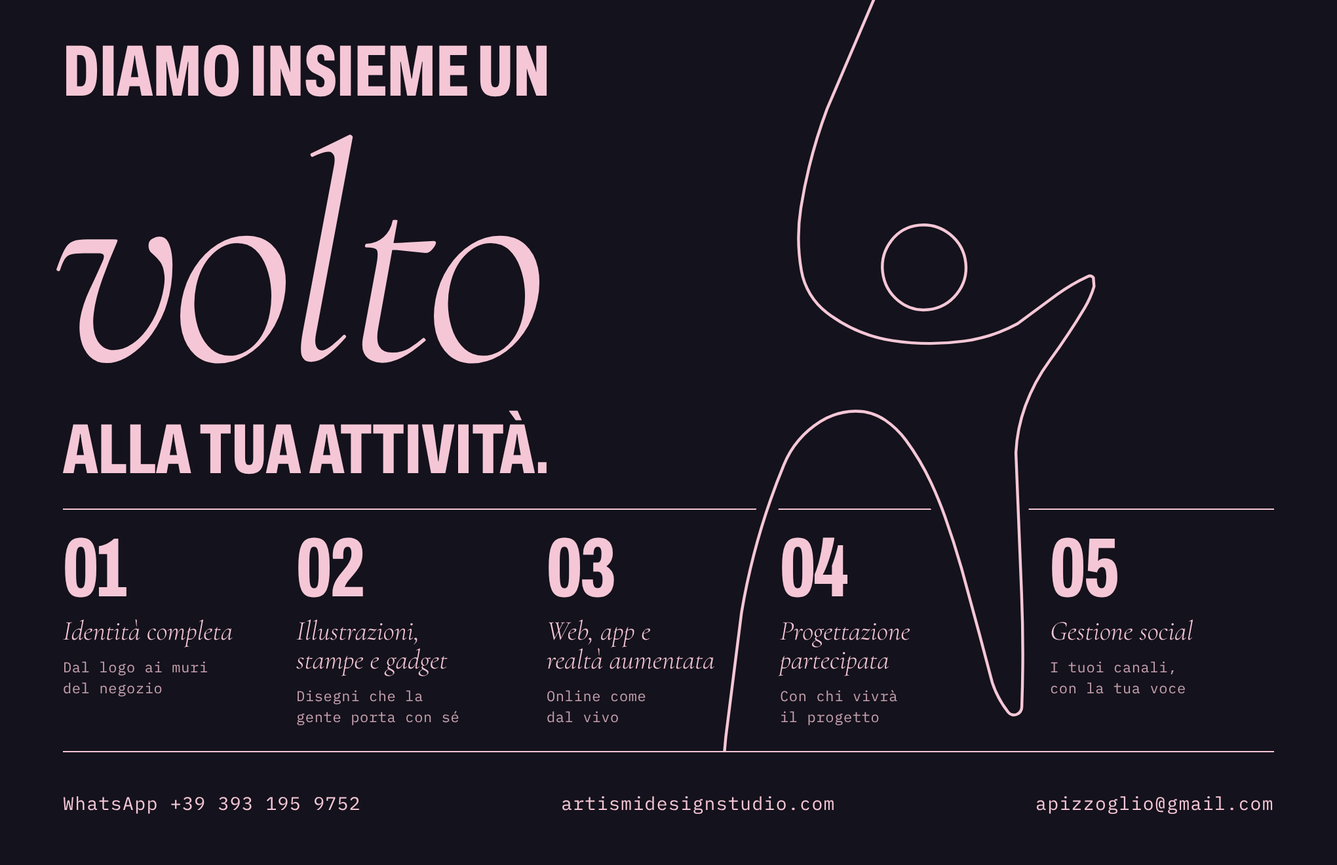
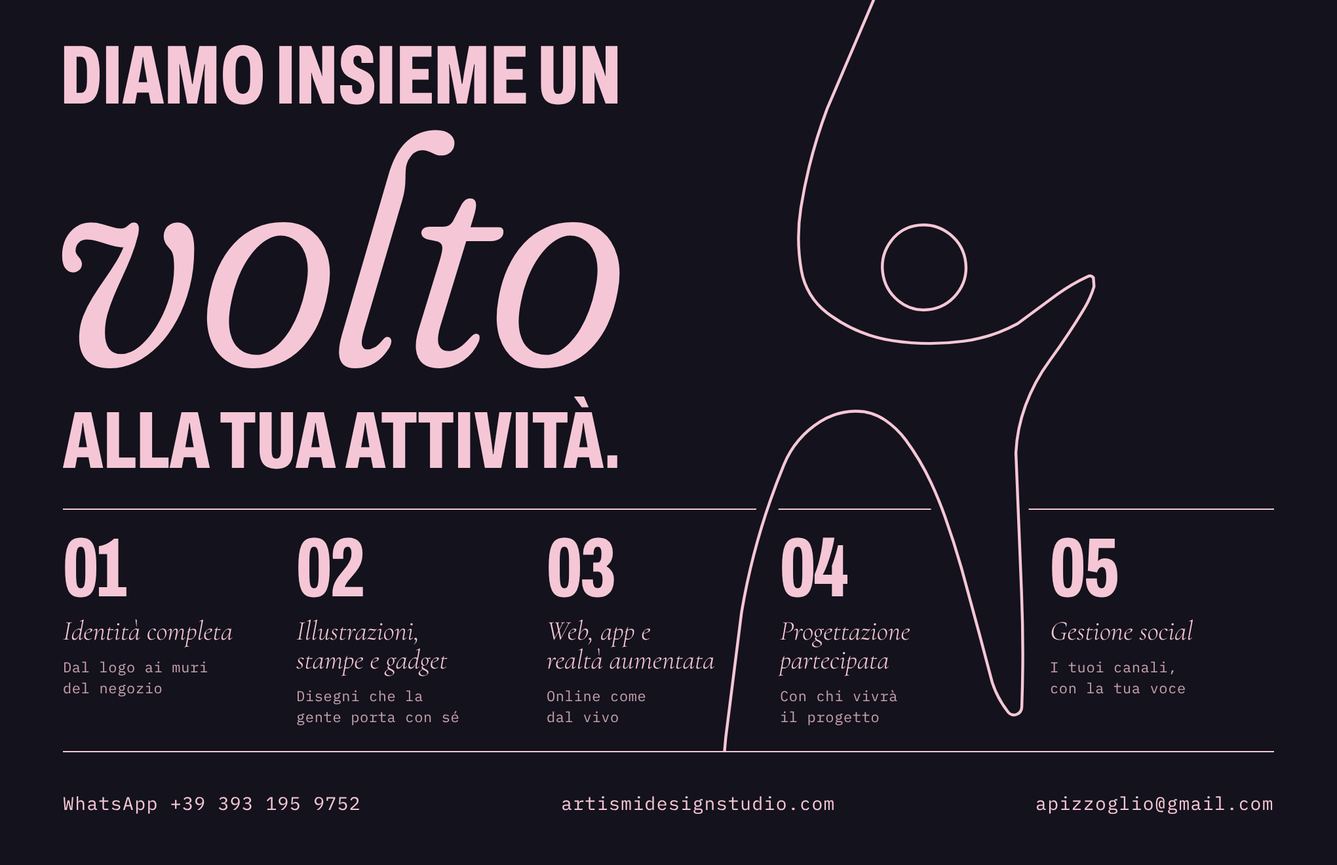
Biglietto, retro: claim ricomposto sull'inchiostro vero, volto in Fraunces corsivo, tre righe larghe uguali che riempiono il riquadro senza toccarsi
Claude-Session: https://claude.ai/code/session_017BM5XjeHCbJ6zegj574eXv

Changed region(s): [[0.0309, 0.1553, 0.4632, 0.4348], [0.0309, 0.4659, 0.4632, 0.5591], [0.0309, 0.0311, 0.4632, 0.1242]]

diff --git a/ar-print/varianti/retro-bc/biglietto-retro.html b/ar-print/varianti/retro-bc/biglietto-retro.html
@@ -5,6 +5,7 @@
   @font-face { font-family: "Archivo"; src: url("../../fonts/archivo-latin-wdth-normal.woff2") format("woff2"); font-weight: 100 900; font-stretch: 62% 125%; }
   @font-face { font-family: "Cormorant Garamond"; src: url("../../fonts/cormorant-garamond-latin-300-normal.woff2") format("woff2"); font-weight: 300; }
   @font-face { font-family: "Cormorant Garamond"; src: url("../../fonts/cormorant-garamond-latin-300-italic.woff2") format("woff2"); font-weight: 300; font-style: italic; }
+  @font-face { font-family: "Fraunces"; src: url("../../fonts/fraunces-latin-full-italic.woff2") format("woff2"); font-weight: 100 900; font-style: italic; }
   @font-face { font-family: "IBM Plex Mono"; src: url("../../fonts/ibm-plex-mono-latin-400-normal.woff2") format("woff2"); font-weight: 400; }
   @page { size: 85mm 55mm; margin: 0; }
   * { box-sizing: border-box; margin: 0; padding: 0; }
@@ -18,9 +19,10 @@
   .det { position: absolute; left: 0; top: 0; width: 1020px; height: 574px; overflow: hidden; }  /* la figura scende fra i servizi */
   .det path { fill: none; stroke: #F5C7D6; stroke-width: 1.100; stroke-linejoin: round; stroke-linecap: round; }
   .det path.alone { stroke: #14121C; stroke-width: 8.000; }  /* dove la figura attraversa il filetto di sopra, il filetto si interrompe */
-  .claim { position: absolute; left: 48px; top: 34px; height: 330px; display: inline-flex; flex-direction: column; justify-content: space-between; align-items: flex-start; }
-  .claim .a { display: block; font-size: 44px; line-height: .74; white-space: nowrap; letter-spacing: 0; }
-  .claim .volto { display: block; font-size: 236px; line-height: .74; letter-spacing: -.035em; white-space: nowrap; margin-left: -10px; }
+  /* il claim: tre righe composte sull'inchiostro vero (blocco.js qui sotto), larghe uguali, senza toccarsi, che riempiono il riquadro */
+  .claim { position: absolute; left: 48px; top: 34px; width: 520px; height: 324px; }
+  .claim span { position: absolute; left: 0; top: 0; white-space: nowrap; line-height: 1; letter-spacing: 0; }
+  .claim .v { font-family: "Fraunces", serif; font-style: italic; font-weight: 330; font-variation-settings: "SOFT" 100, "WONK" 1, "opsz" 144; }
   .linea { position: absolute; left: 48px; right: 48px; height: 0; border-top: 1px solid #F5C7D6; }
   .indice { position: absolute; left: 48px; right: 48px; top: 408px; list-style: none; display: grid; grid-template-columns: 162px 175px 162px 190px 1fr; gap: 16px; }
   .indice li:nth-child(3) > .m { max-width: 110px; }
@@ -36,7 +38,7 @@
   <svg class="det" viewBox="0 0 1020 574"><defs><clipPath id="riga"><rect x="0" y="378" width="1020" height="20"/></clipPath></defs>
     <g clip-path="url(#riga)"><g transform="translate(-986.00 -298.40) scale(2.0000)"><path class="alone" d="M 842.7491491870207,88.40792444867843 A 2.43,2.43 0.0 0,1 845.56,88.88 A 4.19,4.19 0.0 0,1 846.61,92.94 A 397.87,397.87 0.0 0,1 833.72,131.68 L 808.52,190.67 A 193.84,193.84 0.0 0,0 798.49,228.56 A 72.37,72.37 0.0 0,0 798.7,252.51 A 25.81,25.81 0.0 0,0 808.43,268.51 A 54.76,54.76 0.0 0,0 833.54,279.17 A 95.45,95.45 0.0 0,0 860.63,279.37 A 60.43,60.43 0.0 0,0 881.13,272.7 L 896.27,261.52 A 70.24,70.24 0.0 0,1 908.03,254.62 A 1.67,1.67 0.0 0,1 910.07,255.13 L 910.32,258.47 A 35.85,35.85 0.0 0,1 906.7,266.71 A 259.81,259.81 0.0 0,1 893.31,286.9 A 69.32,69.32 0.0 0,0 884.11,304.09 A 60.26,60.26 0.0 0,0 880.52,321.9 L 882.69,375.85 A 556.83,556.83 0.0 0,1 882.77,418.93 A 3.2,3.2 0.0 0,1 881.0,421.67 A 2.8,2.8 0.0 0,1 877.56,420.89 A 36.89,36.89 0.0 0,1 871.5,409.61 L 866.6,391.1 L 859.71,365.8 A 322.56,322.56 0.0 0,0 853.44,346.25 A 149.95,149.95 0.0 0,0 848.13,333.3 A 95.23,95.23 0.0 0,0 838.54,317.11 A 32.71,32.71 0.0 0,0 830.6,309.45 A 19.54,19.54 0.0 0,0 819.11,306.07 A 26.02,26.02 0.0 0,0 805.88,310.07 A 35.47,35.47 0.0 0,0 792.01,326.54 A 261.41,261.41 0.0 0,0 775.88,382.72 L 769.85,430.42 L 766.57,467.03 L 765.2,507.64 L 764.3622779249334,514.4871663821559"/></g></g>
     <g transform="translate(-986.00 -298.40) scale(2.0000)"><path d="M 842.7491491870207,88.40792444867843 A 2.43,2.43 0.0 0,1 845.56,88.88 A 4.19,4.19 0.0 0,1 846.61,92.94 A 397.87,397.87 0.0 0,1 833.72,131.68 L 808.52,190.67 A 193.84,193.84 0.0 0,0 798.49,228.56 A 72.37,72.37 0.0 0,0 798.7,252.51 A 25.81,25.81 0.0 0,0 808.43,268.51 A 54.76,54.76 0.0 0,0 833.54,279.17 A 95.45,95.45 0.0 0,0 860.63,279.37 A 60.43,60.43 0.0 0,0 881.13,272.7 L 896.27,261.52 A 70.24,70.24 0.0 0,1 908.03,254.62 A 1.67,1.67 0.0 0,1 910.07,255.13 L 910.32,258.47 A 35.85,35.85 0.0 0,1 906.7,266.71 A 259.81,259.81 0.0 0,1 893.31,286.9 A 69.32,69.32 0.0 0,0 884.11,304.09 A 60.26,60.26 0.0 0,0 880.52,321.9 L 882.69,375.85 A 556.83,556.83 0.0 0,1 882.77,418.93 A 3.2,3.2 0.0 0,1 881.0,421.67 A 2.8,2.8 0.0 0,1 877.56,420.89 A 36.89,36.89 0.0 0,1 871.5,409.61 L 866.6,391.1 L 859.71,365.8 A 322.56,322.56 0.0 0,0 853.44,346.25 A 149.95,149.95 0.0 0,0 848.13,333.3 A 95.23,95.23 0.0 0,0 838.54,317.11 A 32.71,32.71 0.0 0,0 830.6,309.45 A 19.54,19.54 0.0 0,0 819.11,306.07 A 26.02,26.02 0.0 0,0 805.88,310.07 A 35.47,35.47 0.0 0,0 792.01,326.54 A 261.41,261.41 0.0 0,0 775.88,382.72 L 769.85,430.42 L 766.57,467.03 L 765.2,507.64 L 764.3622779249334,514.4871663821559"/><path d="M 847.11,267.33 A 15.33,15.33 0.0 0,1 835.64,263.93 A 16.67,16.67 0.0 0,1 829.68,252.96 A 16.54,16.54 0.0 0,1 833.02,240.96 A 15.29,15.29 0.0 0,1 843.46,235.11 A 16.25,16.25 0.0 0,1 861.37,249.44 A 16.17,16.17 0.0 0,1 847.11,267.33"/></g></svg>
-  <h1 class="claim"><span class="a" data-fit="#volto">Diamo insieme un</span><span class="volto c" id="volto">volto</span><span class="a" data-fit="#volto">alla tua attività.</span></h1>
+  <h1 class="claim" data-blocco><span class="a">Diamo insieme un</span><span class="v">volto</span><span class="a">alla tua attività.</span></h1>
   <ol class="indice"><li><span class="a">01</span><span class="c">Identità completa</span><span class="m">Dal logo ai muri del negozio</span></li><li><span class="a">02</span><span class="c">Illustrazioni, stampe e gadget</span><span class="m">Disegni che la gente porta con sé</span></li><li><span class="a">03</span><span class="c">Web, app e realtà aumentata</span><span class="m">Online come dal vivo</span></li><li><span class="a">04</span><span class="c">Progettazione partecipata</span><span class="m">Con chi vivrà il progetto</span></li><li><span class="a">05</span><span class="c">Gestione social</span><span class="m">I tuoi canali, con la tua voce</span></li></ol>
   <div class="linea" style="bottom:86px"></div>
   <div class="piede m"><p>WhatsApp +39 393 195 9752</p><p>artismidesignstudio.com</p><p>apizzoglio@gmail.com</p></div>
@@ -52,6 +54,34 @@ document.fonts.ready.then(() => {
     else { let fs = parseFloat(cs.fontSize); for (let i = 0; i < 4; i++) { fs *= W / larg(el); el.style.fontSize = fs + 'px'; } }
   });
   window.__fit = true;
+});
+</script>
+<script>
+// [lettering] il blocco del claim: ogni riga larga uguale, misurata sull'inchiostro (non sulla scatola del carattere),
+// e le righe distribuite in altezza con lo stesso spazio fra l'una e l'altra; se non ci stanno, il blocco si stringe.
+document.fonts.ready.then(() => {
+  document.querySelectorAll('[data-blocco]').forEach(box => {
+    const righe = [...box.children], W0 = box.clientWidth, H = box.clientHeight, GAP = 18;
+    const cv = document.createElement('canvas').getContext('2d');
+    const misura = (el, fs) => { el.style.fontSize = fs + 'px'; const cs = getComputedStyle(el);
+      cv.font = cs.fontStyle + ' ' + cs.fontWeight + ' ' + fs + 'px ' + cs.fontFamily;
+      const st = parseFloat(cs.fontStretch); cv.fontStretch = st <= 65 ? 'extra-condensed' : st <= 80 ? 'condensed' : 'normal';   // il canvas vuole la parola, non la percentuale
+      const t = cs.textTransform === 'uppercase' ? el.textContent.toUpperCase() : el.textContent, m = cv.measureText(t);
+      return { w: m.actualBoundingBoxLeft + m.actualBoundingBoxRight, l: m.actualBoundingBoxLeft, a: m.actualBoundingBoxAscent, d: m.actualBoundingBoxDescent,
+               fa: m.fontBoundingBoxAscent, fd: m.fontBoundingBoxDescent, fs: fs }; };
+    let W = W0, M = [];
+    for (let k = 0; k < 6; k++) {
+      M = righe.map(el => { const m = misura(el, 100); return misura(el, 100 * W / m.w); });
+      const h = M.reduce((s, m) => s + m.a + m.d, 0);
+      if (h + GAP * (righe.length - 1) <= H) break;
+      W *= (H - GAP * (righe.length - 1)) / h;
+    }
+    const h = M.reduce((s, m) => s + m.a + m.d, 0), gap = (H - h) / (righe.length - 1);
+    let y = 0;
+    righe.forEach((el, i) => { const m = M[i], base = (m.fs - (m.fa + m.fd)) / 2 + m.fa;   // la linea di base dentro la riga (line-height 1)
+      el.style.left = m.l + 'px'; el.style.top = (y + m.a - base) + 'px'; y += m.a + m.d + gap; });
+  });
+  window.__blocco = true;
 });
 </script>
 </body></html>

diff --git a/ar-print/biglietto-retro.html b/ar-print/biglietto-retro.html
@@ -5,6 +5,7 @@
   @font-face { font-family: "Archivo"; src: url("fonts/archivo-latin-wdth-normal.woff2") format("woff2"); font-weight: 100 900; font-stretch: 62% 125%; }
   @font-face { font-family: "Cormorant Garamond"; src: url("fonts/cormorant-garamond-latin-300-normal.woff2") format("woff2"); font-weight: 300; }
   @font-face { font-family: "Cormorant Garamond"; src: url("fonts/cormorant-garamond-latin-300-italic.woff2") format("woff2"); font-weight: 300; font-style: italic; }
+  @font-face { font-family: "Fraunces"; src: url("fonts/fraunces-latin-full-italic.woff2") format("woff2"); font-weight: 100 900; font-style: italic; }
   @font-face { font-family: "IBM Plex Mono"; src: url("fonts/ibm-plex-mono-latin-400-normal.woff2") format("woff2"); font-weight: 400; }
   @page { size: 85mm 55mm; margin: 0; }
   * { box-sizing: border-box; margin: 0; padding: 0; }
@@ -18,9 +19,10 @@
   .det { position: absolute; left: 0; top: 0; width: 1020px; height: 574px; overflow: hidden; }  /* la figura scende fra i servizi */
   .det path { fill: none; stroke: #F5C7D6; stroke-width: 1.100; stroke-linejoin: round; stroke-linecap: round; }
   .det path.alone { stroke: #14121C; stroke-width: 8.000; }  /* dove la figura attraversa il filetto di sopra, il filetto si interrompe */
-  .claim { position: absolute; left: 48px; top: 34px; height: 330px; display: inline-flex; flex-direction: column; justify-content: space-between; align-items: flex-start; }
-  .claim .a { display: block; font-size: 44px; line-height: .74; white-space: nowrap; letter-spacing: 0; }
-  .claim .volto { display: block; font-size: 236px; line-height: .74; letter-spacing: -.035em; white-space: nowrap; margin-left: -10px; }
+  /* il claim: tre righe composte sull'inchiostro vero (blocco.js qui sotto), larghe uguali, senza toccarsi, che riempiono il riquadro */
+  .claim { position: absolute; left: 48px; top: 34px; width: 520px; height: 324px; }
+  .claim span { position: absolute; left: 0; top: 0; white-space: nowrap; line-height: 1; letter-spacing: 0; }
+  .claim .v { font-family: "Fraunces", serif; font-style: italic; font-weight: 330; font-variation-settings: "SOFT" 100, "WONK" 1, "opsz" 144; }
   .linea { position: absolute; left: 48px; right: 48px; height: 0; border-top: 1px solid #F5C7D6; }
   .indice { position: absolute; left: 48px; right: 48px; top: 408px; list-style: none; display: grid; grid-template-columns: 162px 175px 162px 190px 1fr; gap: 16px; }
   .indice li:nth-child(3) > .m { max-width: 110px; }
@@ -36,7 +38,7 @@
   <svg class="det" viewBox="0 0 1020 574"><defs><clipPath id="riga"><rect x="0" y="378" width="1020" height="20"/></clipPath></defs>
     <g clip-path="url(#riga)"><g transform="translate(-986.00 -298.40) scale(2.0000)"><path class="alone" d="M 842.7491491870207,88.40792444867843 A 2.43,2.43 0.0 0,1 845.56,88.88 A 4.19,4.19 0.0 0,1 846.61,92.94 A 397.87,397.87 0.0 0,1 833.72,131.68 L 808.52,190.67 A 193.84,193.84 0.0 0,0 798.49,228.56 A 72.37,72.37 0.0 0,0 798.7,252.51 A 25.81,25.81 0.0 0,0 808.43,268.51 A 54.76,54.76 0.0 0,0 833.54,279.17 A 95.45,95.45 0.0 0,0 860.63,279.37 A 60.43,60.43 0.0 0,0 881.13,272.7 L 896.27,261.52 A 70.24,70.24 0.0 0,1 908.03,254.62 A 1.67,1.67 0.0 0,1 910.07,255.13 L 910.32,258.47 A 35.85,35.85 0.0 0,1 906.7,266.71 A 259.81,259.81 0.0 0,1 893.31,286.9 A 69.32,69.32 0.0 0,0 884.11,304.09 A 60.26,60.26 0.0 0,0 880.52,321.9 L 882.69,375.85 A 556.83,556.83 0.0 0,1 882.77,418.93 A 3.2,3.2 0.0 0,1 881.0,421.67 A 2.8,2.8 0.0 0,1 877.56,420.89 A 36.89,36.89 0.0 0,1 871.5,409.61 L 866.6,391.1 L 859.71,365.8 A 322.56,322.56 0.0 0,0 853.44,346.25 A 149.95,149.95 0.0 0,0 848.13,333.3 A 95.23,95.23 0.0 0,0 838.54,317.11 A 32.71,32.71 0.0 0,0 830.6,309.45 A 19.54,19.54 0.0 0,0 819.11,306.07 A 26.02,26.02 0.0 0,0 805.88,310.07 A 35.47,35.47 0.0 0,0 792.01,326.54 A 261.41,261.41 0.0 0,0 775.88,382.72 L 769.85,430.42 L 766.57,467.03 L 765.2,507.64 L 764.3622779249334,514.4871663821559"/></g></g>
     <g transform="translate(-986.00 -298.40) scale(2.0000)"><path d="M 842.7491491870207,88.40792444867843 A 2.43,2.43 0.0 0,1 845.56,88.88 A 4.19,4.19 0.0 0,1 846.61,92.94 A 397.87,397.87 0.0 0,1 833.72,131.68 L 808.52,190.67 A 193.84,193.84 0.0 0,0 798.49,228.56 A 72.37,72.37 0.0 0,0 798.7,252.51 A 25.81,25.81 0.0 0,0 808.43,268.51 A 54.76,54.76 0.0 0,0 833.54,279.17 A 95.45,95.45 0.0 0,0 860.63,279.37 A 60.43,60.43 0.0 0,0 881.13,272.7 L 896.27,261.52 A 70.24,70.24 0.0 0,1 908.03,254.62 A 1.67,1.67 0.0 0,1 910.07,255.13 L 910.32,258.47 A 35.85,35.85 0.0 0,1 906.7,266.71 A 259.81,259.81 0.0 0,1 893.31,286.9 A 69.32,69.32 0.0 0,0 884.11,304.09 A 60.26,60.26 0.0 0,0 880.52,321.9 L 882.69,375.85 A 556.83,556.83 0.0 0,1 882.77,418.93 A 3.2,3.2 0.0 0,1 881.0,421.67 A 2.8,2.8 0.0 0,1 877.56,420.89 A 36.89,36.89 0.0 0,1 871.5,409.61 L 866.6,391.1 L 859.71,365.8 A 322.56,322.56 0.0 0,0 853.44,346.25 A 149.95,149.95 0.0 0,0 848.13,333.3 A 95.23,95.23 0.0 0,0 838.54,317.11 A 32.71,32.71 0.0 0,0 830.6,309.45 A 19.54,19.54 0.0 0,0 819.11,306.07 A 26.02,26.02 0.0 0,0 805.88,310.07 A 35.47,35.47 0.0 0,0 792.01,326.54 A 261.41,261.41 0.0 0,0 775.88,382.72 L 769.85,430.42 L 766.57,467.03 L 765.2,507.64 L 764.3622779249334,514.4871663821559"/><path d="M 847.11,267.33 A 15.33,15.33 0.0 0,1 835.64,263.93 A 16.67,16.67 0.0 0,1 829.68,252.96 A 16.54,16.54 0.0 0,1 833.02,240.96 A 15.29,15.29 0.0 0,1 843.46,235.11 A 16.25,16.25 0.0 0,1 861.37,249.44 A 16.17,16.17 0.0 0,1 847.11,267.33"/></g></svg>
-  <h1 class="claim"><span class="a" data-fit="#volto">Diamo insieme un</span><span class="volto c" id="volto">volto</span><span class="a" data-fit="#volto">alla tua attività.</span></h1>
+  <h1 class="claim" data-blocco><span class="a">Diamo insieme un</span><span class="v">volto</span><span class="a">alla tua attività.</span></h1>
   <ol class="indice"><li><span class="a">01</span><span class="c">Identità completa</span><span class="m">Dal logo ai muri del negozio</span></li><li><span class="a">02</span><span class="c">Illustrazioni, stampe e gadget</span><span class="m">Disegni che la gente porta con sé</span></li><li><span class="a">03</span><span class="c">Web, app e realtà aumentata</span><span class="m">Online come dal vivo</span></li><li><span class="a">04</span><span class="c">Progettazione partecipata</span><span class="m">Con chi vivrà il progetto</span></li><li><span class="a">05</span><span class="c">Gestione social</span><span class="m">I tuoi canali, con la tua voce</span></li></ol>
   <div class="linea" style="bottom:86px"></div>
   <div class="piede m"><p>WhatsApp +39 393 195 9752</p><p>artismidesignstudio.com</p><p>apizzoglio@gmail.com</p></div>
@@ -52,6 +54,34 @@ document.fonts.ready.then(() => {
     else { let fs = parseFloat(cs.fontSize); for (let i = 0; i < 4; i++) { fs *= W / larg(el); el.style.fontSize = fs + 'px'; } }
   });
   window.__fit = true;
+});
+</script>
+<script>
+// [lettering] il blocco del claim: ogni riga larga uguale, misurata sull'inchiostro (non sulla scatola del carattere),
+// e le righe distribuite in altezza con lo stesso spazio fra l'una e l'altra; se non ci stanno, il blocco si stringe.
+document.fonts.ready.then(() => {
+  document.querySelectorAll('[data-blocco]').forEach(box => {
+    const righe = [...box.children], W0 = box.clientWidth, H = box.clientHeight, GAP = 18;
+    const cv = document.createElement('canvas').getContext('2d');
+    const misura = (el, fs) => { el.style.fontSize = fs + 'px'; const cs = getComputedStyle(el);
+      cv.font = cs.fontStyle + ' ' + cs.fontWeight + ' ' + fs + 'px ' + cs.fontFamily;
+      const st = parseFloat(cs.fontStretch); cv.fontStretch = st <= 65 ? 'extra-condensed' : st <= 80 ? 'condensed' : 'normal';   // il canvas vuole la parola, non la percentuale
+      const t = cs.textTransform === 'uppercase' ? el.textContent.toUpperCase() : el.textContent, m = cv.measureText(t);
+      return { w: m.actualBoundingBoxLeft + m.actualBoundingBoxRight, l: m.actualBoundingBoxLeft, a: m.actualBoundingBoxAscent, d: m.actualBoundingBoxDescent,
+               fa: m.fontBoundingBoxAscent, fd: m.fontBoundingBoxDescent, fs: fs }; };
+    let W = W0, M = [];
+    for (let k = 0; k < 6; k++) {
+      M = righe.map(el => { const m = misura(el, 100); return misura(el, 100 * W / m.w); });
+      const h = M.reduce((s, m) => s + m.a + m.d, 0);
+      if (h + GAP * (righe.length - 1) <= H) break;
+      W *= (H - GAP * (righe.length - 1)) / h;
+    }
+    const h = M.reduce((s, m) => s + m.a + m.d, 0), gap = (H - h) / (righe.length - 1);
+    let y = 0;
+    righe.forEach((el, i) => { const m = M[i], base = (m.fs - (m.fa + m.fd)) / 2 + m.fa;   // la linea di base dentro la riga (line-height 1)
+      el.style.left = m.l + 'px'; el.style.top = (y + m.a - base) + 'px'; y += m.a + m.d + gap; });
+  });
+  window.__blocco = true;
 });
 </script>
 </body></html>

diff --git a/ar-print/varianti/retro-dettaglio/biglietto-retro.html b/ar-print/varianti/retro-dettaglio/biglietto-retro.html
@@ -5,6 +5,7 @@
   @font-face { font-family: "Archivo"; src: url("../../fonts/archivo-latin-wdth-normal.woff2") format("woff2"); font-weight: 100 900; font-stretch: 62% 125%; }
   @font-face { font-family: "Cormorant Garamond"; src: url("../../fonts/cormorant-garamond-latin-300-normal.woff2") format("woff2"); font-weight: 300; }
   @font-face { font-family: "Cormorant Garamond"; src: url("../../fonts/cormorant-garamond-latin-300-italic.woff2") format("woff2"); font-weight: 300; font-style: italic; }
+  @font-face { font-family: "Fraunces"; src: url("../../fonts/fraunces-latin-full-italic.woff2") format("woff2"); font-weight: 100 900; font-style: italic; }
   @font-face { font-family: "IBM Plex Mono"; src: url("../../fonts/ibm-plex-mono-latin-400-normal.woff2") format("woff2"); font-weight: 400; }
   @page { size: 85mm 55mm; margin: 0; }
   * { box-sizing: border-box; margin: 0; padding: 0; }
@@ -45,6 +46,34 @@ document.fonts.ready.then(() => {
     else { let fs = parseFloat(cs.fontSize); for (let i = 0; i < 4; i++) { fs *= W / larg(el); el.style.fontSize = fs + 'px'; } }
   });
   window.__fit = true;
+});
+</script>
+<script>
+// [lettering] il blocco del claim: ogni riga larga uguale, misurata sull'inchiostro (non sulla scatola del carattere),
+// e le righe distribuite in altezza con lo stesso spazio fra l'una e l'altra; se non ci stanno, il blocco si stringe.
+document.fonts.ready.then(() => {
+  document.querySelectorAll('[data-blocco]').forEach(box => {
+    const righe = [...box.children], W0 = box.clientWidth, H = box.clientHeight, GAP = 18;
+    const cv = document.createElement('canvas').getContext('2d');
+    const misura = (el, fs) => { el.style.fontSize = fs + 'px'; const cs = getComputedStyle(el);
+      cv.font = cs.fontStyle + ' ' + cs.fontWeight + ' ' + fs + 'px ' + cs.fontFamily;
+      const st = parseFloat(cs.fontStretch); cv.fontStretch = st <= 65 ? 'extra-condensed' : st <= 80 ? 'condensed' : 'normal';   // il canvas vuole la parola, non la percentuale
+      const t = cs.textTransform === 'uppercase' ? el.textContent.toUpperCase() : el.textContent, m = cv.measureText(t);
+      return { w: m.actualBoundingBoxLeft + m.actualBoundingBoxRight, l: m.actualBoundingBoxLeft, a: m.actualBoundingBoxAscent, d: m.actualBoundingBoxDescent,
+               fa: m.fontBoundingBoxAscent, fd: m.fontBoundingBoxDescent, fs: fs }; };
+    let W = W0, M = [];
+    for (let k = 0; k < 6; k++) {
+      M = righe.map(el => { const m = misura(el, 100); return misura(el, 100 * W / m.w); });
+      const h = M.reduce((s, m) => s + m.a + m.d, 0);
+      if (h + GAP * (righe.length - 1) <= H) break;
+      W *= (H - GAP * (righe.length - 1)) / h;
+    }
+    const h = M.reduce((s, m) => s + m.a + m.d, 0), gap = (H - h) / (righe.length - 1);
+    let y = 0;
+    righe.forEach((el, i) => { const m = M[i], base = (m.fs - (m.fa + m.fd)) / 2 + m.fa;   // la linea di base dentro la riga (line-height 1)
+      el.style.left = m.l + 'px'; el.style.top = (y + m.a - base) + 'px'; y += m.a + m.d + gap; });
+  });
+  window.__blocco = true;
 });
 </script>
 </body></html>

diff --git a/ar-print/varianti/retro-fusione/biglietto-retro.html b/ar-print/varianti/retro-fusione/biglietto-retro.html
@@ -5,6 +5,7 @@
   @font-face { font-family: "Archivo"; src: url("../../fonts/archivo-latin-wdth-normal.woff2") format("woff2"); font-weight: 100 900; font-stretch: 62% 125%; }
   @font-face { font-family: "Cormorant Garamond"; src: url("../../fonts/cormorant-garamond-latin-300-normal.woff2") format("woff2"); font-weight: 300; }
   @font-face { font-family: "Cormorant Garamond"; src: url("../../fonts/cormorant-garamond-latin-300-italic.woff2") format("woff2"); font-weight: 300; font-style: italic; }
+  @font-face { font-family: "Fraunces"; src: url("../../fonts/fraunces-latin-full-italic.woff2") format("woff2"); font-weight: 100 900; font-style: italic; }
   @font-face { font-family: "IBM Plex Mono"; src: url("../../fonts/ibm-plex-mono-latin-400-normal.woff2") format("woff2"); font-weight: 400; }
   @page { size: 85mm 55mm; margin: 0; }
   * { box-sizing: border-box; margin: 0; padding: 0; }
@@ -49,6 +50,34 @@ document.fonts.ready.then(() => {
     else { let fs = parseFloat(cs.fontSize); for (let i = 0; i < 4; i++) { fs *= W / larg(el); el.style.fontSize = fs + 'px'; } }
   });
   window.__fit = true;
+});
+</script>
+<script>
+// [lettering] il blocco del claim: ogni riga larga uguale, misurata sull'inchiostro (non sulla scatola del carattere),
+// e le righe distribuite in altezza con lo stesso spazio fra l'una e l'altra; se non ci stanno, il blocco si stringe.
+document.fonts.ready.then(() => {
+  document.querySelectorAll('[data-blocco]').forEach(box => {
+    const righe = [...box.children], W0 = box.clientWidth, H = box.clientHeight, GAP = 18;
+    const cv = document.createElement('canvas').getContext('2d');
+    const misura = (el, fs) => { el.style.fontSize = fs + 'px'; const cs = getComputedStyle(el);
+      cv.font = cs.fontStyle + ' ' + cs.fontWeight + ' ' + fs + 'px ' + cs.fontFamily;
+      const st = parseFloat(cs.fontStretch); cv.fontStretch = st <= 65 ? 'extra-condensed' : st <= 80 ? 'condensed' : 'normal';   // il canvas vuole la parola, non la percentuale
+      const t = cs.textTransform === 'uppercase' ? el.textContent.toUpperCase() : el.textContent, m = cv.measureText(t);
+      return { w: m.actualBoundingBoxLeft + m.actualBoundingBoxRight, l: m.actualBoundingBoxLeft, a: m.actualBoundingBoxAscent, d: m.actualBoundingBoxDescent,
+               fa: m.fontBoundingBoxAscent, fd: m.fontBoundingBoxDescent, fs: fs }; };
+    let W = W0, M = [];
+    for (let k = 0; k < 6; k++) {
+      M = righe.map(el => { const m = misura(el, 100); return misura(el, 100 * W / m.w); });
+      const h = M.reduce((s, m) => s + m.a + m.d, 0);
+      if (h + GAP * (righe.length - 1) <= H) break;
+      W *= (H - GAP * (righe.length - 1)) / h;
+    }
+    const h = M.reduce((s, m) => s + m.a + m.d, 0), gap = (H - h) / (righe.length - 1);
+    let y = 0;
+    righe.forEach((el, i) => { const m = M[i], base = (m.fs - (m.fa + m.fd)) / 2 + m.fa;   // la linea di base dentro la riga (line-height 1)
+      el.style.left = m.l + 'px'; el.style.top = (y + m.a - base) + 'px'; y += m.a + m.d + gap; });
+  });
+  window.__blocco = true;
 });
 </script>
 </body></html>

diff --git a/ar-print/varianti/retro-indice/biglietto-retro.html b/ar-print/varianti/retro-indice/biglietto-retro.html
@@ -5,6 +5,7 @@
   @font-face { font-family: "Archivo"; src: url("../../fonts/archivo-latin-wdth-normal.woff2") format("woff2"); font-weight: 100 900; font-stretch: 62% 125%; }
   @font-face { font-family: "Cormorant Garamond"; src: url("../../fonts/cormorant-garamond-latin-300-normal.woff2") format("woff2"); font-weight: 300; }
   @font-face { font-family: "Cormorant Garamond"; src: url("../../fonts/cormorant-garamond-latin-300-italic.woff2") format("woff2"); font-weight: 300; font-style: italic; }
+  @font-face { font-family: "Fraunces"; src: url("../../fonts/fraunces-latin-full-italic.woff2") format("woff2"); font-weight: 100 900; font-style: italic; }
   @font-face { font-family: "IBM Plex Mono"; src: url("../../fonts/ibm-plex-mono-latin-400-normal.woff2") format("woff2"); font-weight: 400; }
   @page { size: 85mm 55mm; margin: 0; }
   * { box-sizing: border-box; margin: 0; padding: 0; }
@@ -44,6 +45,34 @@ document.fonts.ready.then(() => {
     else { let fs = parseFloat(cs.fontSize); for (let i = 0; i < 4; i++) { fs *= W / larg(el); el.style.fontSize = fs + 'px'; } }
   });
   window.__fit = true;
+});
+</script>
+<script>
+// [lettering] il blocco del claim: ogni riga larga uguale, misurata sull'inchiostro (non sulla scatola del carattere),
+// e le righe distribuite in altezza con lo stesso spazio fra l'una e l'altra; se non ci stanno, il blocco si stringe.
+document.fonts.ready.then(() => {
+  document.querySelectorAll('[data-blocco]').forEach(box => {
+    const righe = [...box.children], W0 = box.clientWidth, H = box.clientHeight, GAP = 18;
+    const cv = document.createElement('canvas').getContext('2d');
+    const misura = (el, fs) => { el.style.fontSize = fs + 'px'; const cs = getComputedStyle(el);
+      cv.font = cs.fontStyle + ' ' + cs.fontWeight + ' ' + fs + 'px ' + cs.fontFamily;
+      const st = parseFloat(cs.fontStretch); cv.fontStretch = st <= 65 ? 'extra-condensed' : st <= 80 ? 'condensed' : 'normal';   // il canvas vuole la parola, non la percentuale
+      const t = cs.textTransform === 'uppercase' ? el.textContent.toUpperCase() : el.textContent, m = cv.measureText(t);
+      return { w: m.actualBoundingBoxLeft + m.actualBoundingBoxRight, l: m.actualBoundingBoxLeft, a: m.actualBoundingBoxAscent, d: m.actualBoundingBoxDescent,
+               fa: m.fontBoundingBoxAscent, fd: m.fontBoundingBoxDescent, fs: fs }; };
+    let W = W0, M = [];
+    for (let k = 0; k < 6; k++) {
+      M = righe.map(el => { const m = misura(el, 100); return misura(el, 100 * W / m.w); });
+      const h = M.reduce((s, m) => s + m.a + m.d, 0);
+      if (h + GAP * (righe.length - 1) <= H) break;
+      W *= (H - GAP * (righe.length - 1)) / h;
+    }
+    const h = M.reduce((s, m) => s + m.a + m.d, 0), gap = (H - h) / (righe.length - 1);
+    let y = 0;
+    righe.forEach((el, i) => { const m = M[i], base = (m.fs - (m.fa + m.fd)) / 2 + m.fa;   // la linea di base dentro la riga (line-height 1)
+      el.style.left = m.l + 'px'; el.style.top = (y + m.a - base) + 'px'; y += m.a + m.d + gap; });
+  });
+  window.__blocco = true;
 });
 </script>
 </body></html>

diff --git a/ar-print/varianti/retro-volto/biglietto-retro.html b/ar-print/varianti/retro-volto/biglietto-retro.html
@@ -5,6 +5,7 @@
   @font-face { font-family: "Archivo"; src: url("../../fonts/archivo-latin-wdth-normal.woff2") format("woff2"); font-weight: 100 900; font-stretch: 62% 125%; }
   @font-face { font-family: "Cormorant Garamond"; src: url("../../fonts/cormorant-garamond-latin-300-normal.woff2") format("woff2"); font-weight: 300; }
   @font-face { font-family: "Cormorant Garamond"; src: url("../../fonts/cormorant-garamond-latin-300-italic.woff2") format("woff2"); font-weight: 300; font-style: italic; }
+  @font-face { font-family: "Fraunces"; src: url("../../fonts/fraunces-latin-full-italic.woff2") format("woff2"); font-weight: 100 900; font-style: italic; }
   @font-face { font-family: "IBM Plex Mono"; src: url("../../fonts/ibm-plex-mono-latin-400-normal.woff2") format("woff2"); font-weight: 400; }
   @page { size: 85mm 55mm; margin: 0; }
   * { box-sizing: border-box; margin: 0; padding: 0; }
@@ -43,6 +44,34 @@ document.fonts.ready.then(() => {
     else { let fs = parseFloat(cs.fontSize); for (let i = 0; i < 4; i++) { fs *= W / larg(el); el.style.fontSize = fs + 'px'; } }
   });
   window.__fit = true;
+});
+</script>
+<script>
+// [lettering] il blocco del claim: ogni riga larga uguale, misurata sull'inchiostro (non sulla scatola del carattere),
+// e le righe distribuite in altezza con lo stesso spazio fra l'una e l'altra; se non ci stanno, il blocco si stringe.
+document.fonts.ready.then(() => {
+  document.querySelectorAll('[data-blocco]').forEach(box => {
+    const righe = [...box.children], W0 = box.clientWidth, H = box.clientHeight, GAP = 18;
+    const cv = document.createElement('canvas').getContext('2d');
+    const misura = (el, fs) => { el.style.fontSize = fs + 'px'; const cs = getComputedStyle(el);
+      cv.font = cs.fontStyle + ' ' + cs.fontWeight + ' ' + fs + 'px ' + cs.fontFamily;
+      const st = parseFloat(cs.fontStretch); cv.fontStretch = st <= 65 ? 'extra-condensed' : st <= 80 ? 'condensed' : 'normal';   // il canvas vuole la parola, non la percentuale
+      const t = cs.textTransform === 'uppercase' ? el.textContent.toUpperCase() : el.textContent, m = cv.measureText(t);
+      return { w: m.actualBoundingBoxLeft + m.actualBoundingBoxRight, l: m.actualBoundingBoxLeft, a: m.actualBoundingBoxAscent, d: m.actualBoundingBoxDescent,
+               fa: m.fontBoundingBoxAscent, fd: m.fontBoundingBoxDescent, fs: fs }; };
+    let W = W0, M = [];
+    for (let k = 0; k < 6; k++) {
+      M = righe.map(el => { const m = misura(el, 100); return misura(el, 100 * W / m.w); });
+      const h = M.reduce((s, m) => s + m.a + m.d, 0);
+      if (h + GAP * (righe.length - 1) <= H) break;
+      W *= (H - GAP * (righe.length - 1)) / h;
+    }
+    const h = M.reduce((s, m) => s + m.a + m.d, 0), gap = (H - h) / (righe.length - 1);
+    let y = 0;
+    righe.forEach((el, i) => { const m = M[i], base = (m.fs - (m.fa + m.fd)) / 2 + m.fa;   // la linea di base dentro la riga (line-height 1)
+      el.style.left = m.l + 'px'; el.style.top = (y + m.a - base) + 'px'; y += m.a + m.d + gap; });
+  });
+  window.__blocco = true;
 });
 </script>
 </body></html>

diff --git a/scripts/biglietto-retri.py b/scripts/biglietto-retri.py
@@ -21,6 +21,7 @@ def scrivi(nome, fondo, ink, stile, corpo):
   @font-face {{ font-family: "Archivo"; src: url("{F}/archivo-latin-wdth-normal.woff2") format("woff2"); font-weight: 100 900; font-stretch: 62% 125%; }}
   @font-face {{ font-family: "Cormorant Garamond"; src: url("{F}/cormorant-garamond-latin-300-normal.woff2") format("woff2"); font-weight: 300; }}
   @font-face {{ font-family: "Cormorant Garamond"; src: url("{F}/cormorant-garamond-latin-300-italic.woff2") format("woff2"); font-weight: 300; font-style: italic; }}
+  @font-face {{ font-family: "Fraunces"; src: url("{F}/fraunces-latin-full-italic.woff2") format("woff2"); font-weight: 100 900; font-style: italic; }}
   @font-face {{ font-family: "IBM Plex Mono"; src: url("{F}/ibm-plex-mono-latin-400-normal.woff2") format("woff2"); font-weight: 400; }}
   @page {{ size: 85mm 55mm; margin: 0; }}
   * {{ box-sizing: border-box; margin: 0; padding: 0; }}
@@ -46,6 +47,34 @@ document.fonts.ready.then(() => {{
     else {{ let fs = parseFloat(cs.fontSize); for (let i = 0; i < 4; i++) {{ fs *= W / larg(el); el.style.fontSize = fs + 'px'; }} }}
   }});
   window.__fit = true;
+}});
+</script>
+<script>
+// [lettering] il blocco del claim: ogni riga larga uguale, misurata sull'inchiostro (non sulla scatola del carattere),
+// e le righe distribuite in altezza con lo stesso spazio fra l'una e l'altra; se non ci stanno, il blocco si stringe.
+document.fonts.ready.then(() => {{
+  document.querySelectorAll('[data-blocco]').forEach(box => {{
+    const righe = [...box.children], W0 = box.clientWidth, H = box.clientHeight, GAP = 18;
+    const cv = document.createElement('canvas').getContext('2d');
+    const misura = (el, fs) => {{ el.style.fontSize = fs + 'px'; const cs = getComputedStyle(el);
+      cv.font = cs.fontStyle + ' ' + cs.fontWeight + ' ' + fs + 'px ' + cs.fontFamily;
+      const st = parseFloat(cs.fontStretch); cv.fontStretch = st <= 65 ? 'extra-condensed' : st <= 80 ? 'condensed' : 'normal';   // il canvas vuole la parola, non la percentuale
+      const t = cs.textTransform === 'uppercase' ? el.textContent.toUpperCase() : el.textContent, m = cv.measureText(t);
+      return {{ w: m.actualBoundingBoxLeft + m.actualBoundingBoxRight, l: m.actualBoundingBoxLeft, a: m.actualBoundingBoxAscent, d: m.actualBoundingBoxDescent,
+               fa: m.fontBoundingBoxAscent, fd: m.fontBoundingBoxDescent, fs: fs }}; }};
+    let W = W0, M = [];
+    for (let k = 0; k < 6; k++) {{
+      M = righe.map(el => {{ const m = misura(el, 100); return misura(el, 100 * W / m.w); }});
+      const h = M.reduce((s, m) => s + m.a + m.d, 0);
+      if (h + GAP * (righe.length - 1) <= H) break;
+      W *= (H - GAP * (righe.length - 1)) / h;
+    }}
+    const h = M.reduce((s, m) => s + m.a + m.d, 0), gap = (H - h) / (righe.length - 1);
+    let y = 0;
+    righe.forEach((el, i) => {{ const m = M[i], base = (m.fs - (m.fa + m.fd)) / 2 + m.fa;   // la linea di base dentro la riga (line-height 1)
+      el.style.left = m.l + 'px'; el.style.top = (y + m.a - base) + 'px'; y += m.a + m.d + gap; }});
+  }});
+  window.__blocco = true;
 }});
 </script>
 </body></html>
@@ -148,7 +177,8 @@ def _incroci(y_px):
     for i in _np.nonzero(_np.sign(dy[:-1]) != _np.sign(dy[1:]))[0]:
         xs.append(FTX + SC * (Z[i].real + (Z[i+1].real - Z[i].real) * (-dy[i]) / (dy[i+1] - dy[i])))
     return sorted(xs)
-TOP, H = 34, 330                 # il claim, sopra il filetto dei servizi
+TOP, H = 34, 324                 # il claim, sopra il filetto dei servizi
+CW = 520                         # larghezza massima del claim, prima della figura
 RIGA = 388                       # il filetto: sotto ci sono i servizi, la figura ci finisce sopra
 # il filetto di sopra: dentro la i (fra i due lati della sua gamba) non c'e'
 _x = _incroci(RIGA)                                 # da sinistra: gamba della m, lato sinistro e lato destro della gamba della i
@@ -158,9 +188,10 @@ scrivi('retro-bc', NOTTE, ROSA, f'''
   .det {{ position: absolute; left: 0; top: 0; width: 1020px; height: {FONDO}px; overflow: hidden; }}  /* la figura scende fra i servizi */
   .det path {{ fill: none; stroke: {ROSA}; stroke-width: {2.2 / SC:.3f}; stroke-linejoin: round; stroke-linecap: round; }}
   .det path.alone {{ stroke: {NOTTE}; stroke-width: {16 / SC:.3f}; }}  /* dove la figura attraversa il filetto di sopra, il filetto si interrompe */
-  .claim {{ position: absolute; left: 48px; top: {TOP}px; height: {H}px; display: inline-flex; flex-direction: column; justify-content: space-between; align-items: flex-start; }}
-  .claim .a {{ display: block; font-size: 44px; line-height: .74; white-space: nowrap; letter-spacing: 0; }}
-  .claim .volto {{ display: block; font-size: 236px; line-height: .74; letter-spacing: -.035em; white-space: nowrap; margin-left: -10px; }}
+  /* il claim: tre righe composte sull'inchiostro vero (blocco.js qui sotto), larghe uguali, senza toccarsi, che riempiono il riquadro */
+  .claim {{ position: absolute; left: 48px; top: {TOP}px; width: {CW}px; height: {H}px; }}
+  .claim span {{ position: absolute; left: 0; top: 0; white-space: nowrap; line-height: 1; letter-spacing: 0; }}
+  .claim .v {{ font-family: "Fraunces", serif; font-style: italic; font-weight: 330; font-variation-settings: "SOFT" 100, "WONK" 1, "opsz" 144; }}
   .linea {{ position: absolute; left: 48px; right: 48px; height: 0; border-top: 1px solid {ROSA}; }}
   .indice {{ position: absolute; left: 48px; right: 48px; top: {RIGA + 20}px; list-style: none; display: grid; grid-template-columns: 162px 175px 162px 190px 1fr; gap: 16px; }}
   .indice li:nth-child(3) > .m {{ max-width: 110px; }}
@@ -173,7 +204,7 @@ scrivi('retro-bc', NOTTE, ROSA, f'''
   <svg class="det" viewBox="0 0 1020 {FONDO}"><defs><clipPath id="riga"><rect x="0" y="{RIGA - 10}" width="1020" height="20"/></clipPath></defs>
     <g clip-path="url(#riga)"><g transform="translate({FTX:.2f} {FTY:.2f}) scale({SC:.4f})"><path class="alone" d="{FIG}"/></g></g>
     <g transform="translate({FTX:.2f} {FTY:.2f}) scale({SC:.4f})"><path d="{FIG}"/><path d="{TESTA}"/></g></svg>
-  <h1 class="claim"><span class="a" data-fit="#volto">Diamo insieme un</span><span class="volto c" id="volto">volto</span><span class="a" data-fit="#volto">alla tua attività.</span></h1>
+  <h1 class="claim" data-blocco><span class="a">Diamo insieme un</span><span class="v">volto</span><span class="a">alla tua attività.</span></h1>
   <ol class="indice">{"".join(f'<li><span class="a">{i+1:02d}</span><span class="c">{t}</span><span class="m">{x}</span></li>' for i, (t, x) in enumerate(zip(SERVIZI, DETTAGLI)))}</ol>
   <div class="linea" style="bottom:86px"></div>
   <div class="piede m"><p>WhatsApp +39 393 195 9752</p><p>artismidesignstudio.com</p><p>apizzoglio@gmail.com</p></div>''')
